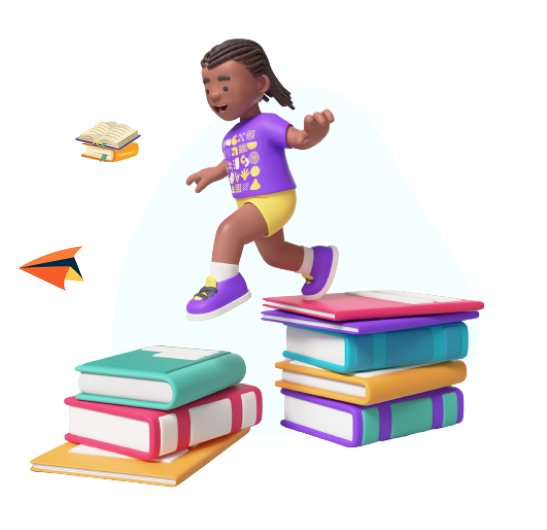
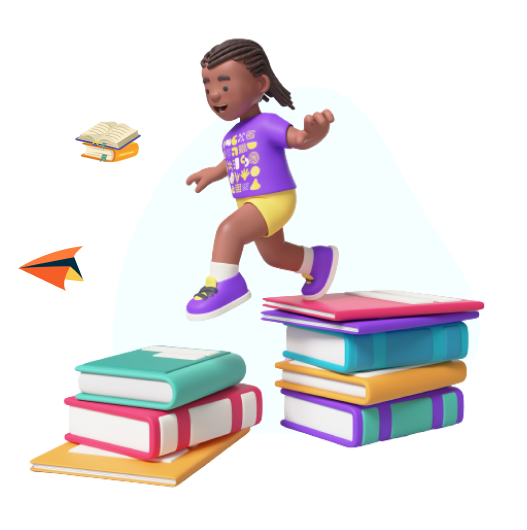
New approach
Changed shadow for the hero section & new background for the explore section

diff --git a/lesson_6/css/style.css b/lesson_6/css/style.css
@@ -150,19 +150,19 @@
 
 .hero__container {
   max-width: calc(1320px + 16px * 2);
-  padding: 225px 16px 28px;
+  padding: 245px 16px 8px;
   margin-inline: auto;
 }
 
 .hero__row {
-  margin-inline: calc(-98px / 2);
+  margin-inline: calc(-116px / 2);
   font-size: 0;
   text-align: center;
 }
 
 .hero__col {
   display: inline-block;
-  padding-inline: calc(98px / 2);
+  padding-inline: calc(116px / 2);
   margin-bottom: 52px;
   font-size: 16px;
   text-align: start;
@@ -171,11 +171,10 @@
 
 .hero__main {
   max-width: 682px;
-  padding-top: 74px;
+  padding-top: 54px;
 }
 
 .hero__title {
-  /* margin-bottom: 52px; */
   margin-bottom: 49px;
   font-size: 74px;
   font-weight: 300;
@@ -183,30 +182,30 @@
 }
 
 .hero__content {
-  /* margin-bottom: 66px; */
-	margin-bottom: 62px;
+  margin-bottom: 62px;
   font-size: 30px;
   line-height: 2.1;
-  /* line-height: 1.83; */
 }
 
 .hero__button {
-  /* padding: 19px 26px 19px 64px; */
-	padding: 21px 27px 22px 64px;
+  padding: 21px 27px 22px 64px;
   font-size: 29px;
   color: hsl(0deg 0% 100%);
   background: url("../img/hero/bag.svg") 26px center no-repeat
     hsl(210deg 25% 16%);
 }
 
+.hero__exposition,
+.hero__exposition img {
+  border-radius: 160px 0;
+}
+
 .hero__exposition {
   max-width: 424px;
-  overflow: hidden;
-  border-radius: 160px 0;
-  box-shadow: 18px 20px 0 -2px hsl(240deg 5% 96%),
-    18px 20px hsl(0deg 0% 0% / 25%);
+  box-shadow: inset 0 0 0 2px hsl(0deg 0% 0% / 25%);
 }
 
 .hero__exposition img {
   width: 100%;
+  margin: -20px 18px 20px -18px;
 }
